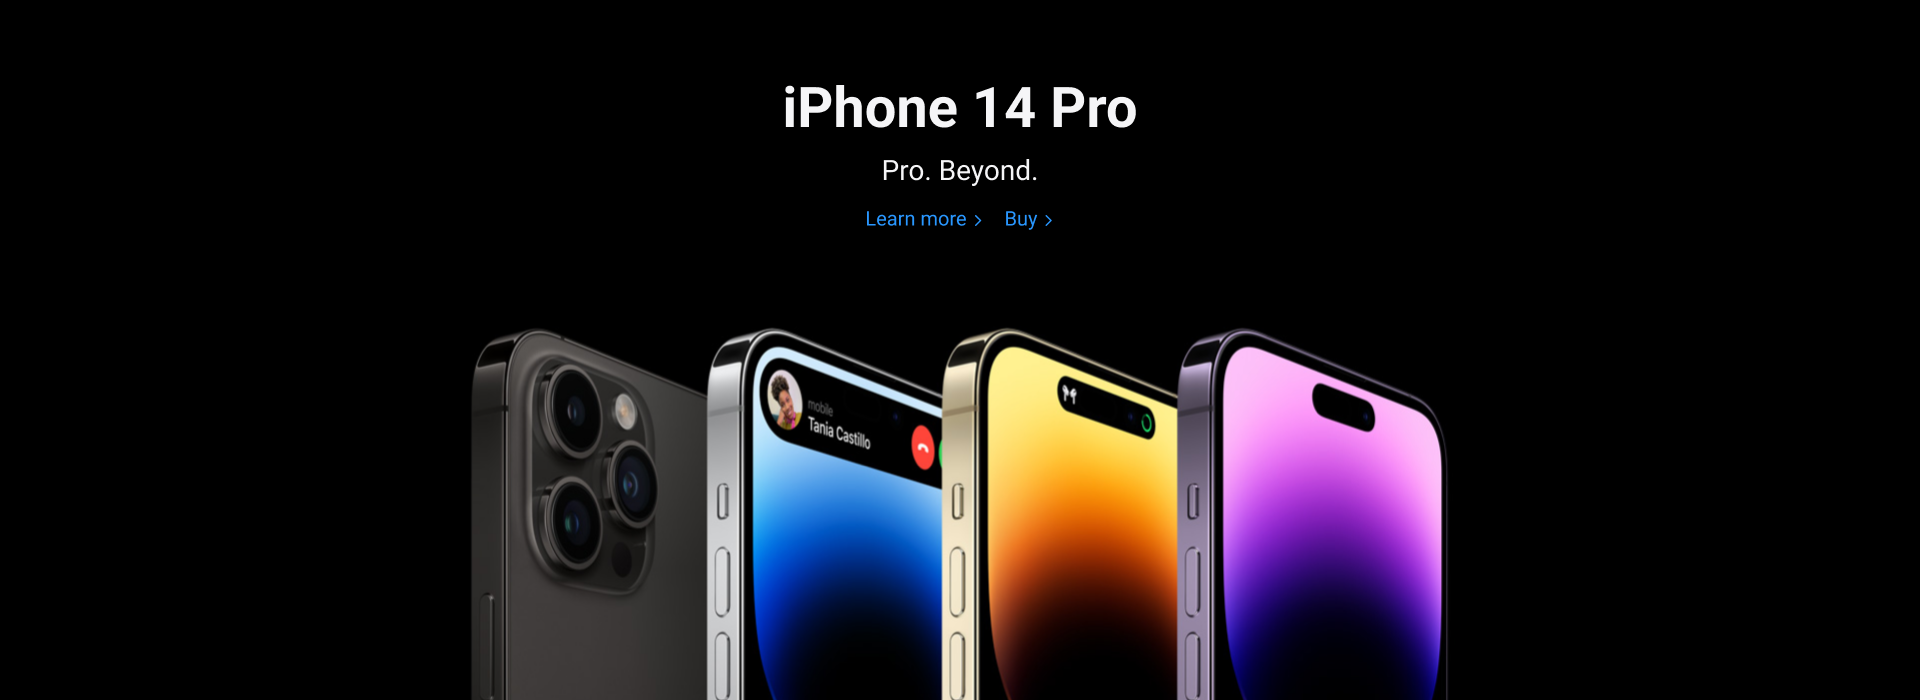
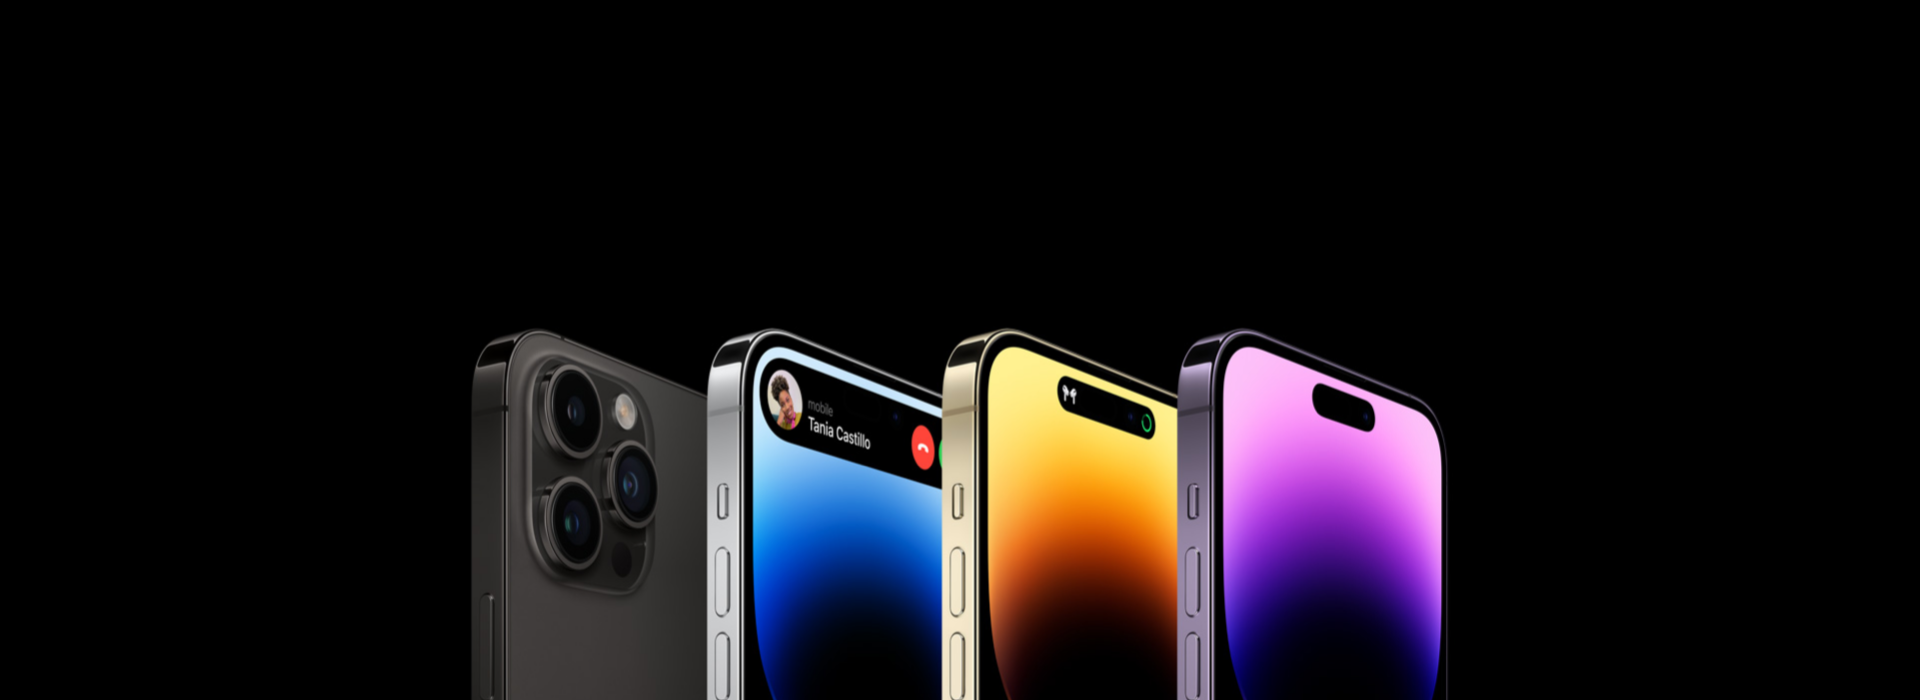
apple homework end

Changed region(s): [[0.4062, 0.12, 0.5938, 0.18], [0.4375, 0.3, 0.5625, 0.33], [0.4688, 0.24, 0.5312, 0.27]]

diff --git a/public/dist/css/container/apple/style.css b/public/dist/css/container/apple/style.css
@@ -1,4 +1,4 @@
-.section, .header, .product {
+.section, .header, .header__bottom, .product {
   display: flex;
   justify-content: center;
   padding: 0 16px;
@@ -37,6 +37,26 @@
 @media all and (width < 1260px) {
   .section__double {
     grid-template-columns: 1fr;
+  }
+}
+
+.footer {
+  display: flex;
+  justify-content: center;
+}
+
+.section__footer, .footer__section {
+  display: grid;
+  grid-template-columns: 1fr 1fr 1fr 1fr 1fr 1fr;
+}
+@media all and (width < 1260px) {
+  .section__footer, .footer__section {
+    grid-template-columns: 1fr 1fr 1fr 1fr;
+  }
+}
+@media all and (width < 1000px) {
+  .section__footer, .footer__section {
+    grid-template-columns: 1fr 1fr 1fr;
   }
 }
 
@@ -81,6 +101,33 @@
 
 .header__linl {
   font-size: 12px;
+}
+
+.header__bottom {
+  display: flex;
+  background-color: #fff;
+}
+
+.header__title {
+  font-size: 16px;
+  color: #000;
+}
+
+.header__link-shop {
+  font-size: 16px;
+  color: #0066cc;
+  position: relative;
+  padding-right: 15px;
+}
+.header__link-shop::after {
+  display: block;
+  content: "";
+  width: 7px;
+  height: 12px;
+  background-image: url("/svg/arrowAction.svg");
+  position: absolute;
+  right: 0;
+  top: calc(50% - 7px);
 }
 
 .product {
@@ -151,7 +198,7 @@
 
 .product-small {
   max-height: 580px;
-  height: 50vh;
+  height: 100vh;
   background-size: cover;
 }
 @media all and (width < ) {
@@ -195,6 +242,11 @@
   background-color: #fafafa;
 }
 
+.product--watch {
+  background-image: url(/img/watch.png);
+  background-color: #000;
+}
+
 .product--trade-in {
   background-image: url(/img/trade-in.png);
   background-color: #fafafa;
@@ -202,6 +254,26 @@
 
 .product--conference {
   background-image: url(/img/conference.png);
+  background-color: #000;
+}
+
+.product--ipad {
+  background-image: url(/img/ipad.png);
+  background-color: #fafafa;
+}
+
+.product--business {
+  background-image: url(/img/business.png);
+  background-color: #000;
+}
+
+.product--gift {
+  background-image: url(/img/gift.png);
+  background-color: #fafafa;
+}
+
+.product--card {
+  background-image: url(/img/card.png);
   background-color: #fafafa;
 }
 
@@ -210,6 +282,34 @@
 }
 .product-small .product__description {
   font-size: 20px;
+}
+
+.footer {
+  min-height: 270px;
+  padding-top: 39px;
+  background-color: #f5f5f7;
+}
+
+.footer__section {
+  max-width: 1000px;
+  width: 100%;
+}
+
+.footer__content {
+  display: flex;
+  flex-direction: column;
+}
+
+.footer__title {
+  font-size: 12px;
+  font-weight: 600;
+  padding-bottom: 16px;
+}
+
+.footer__link {
+  font-size: 12px;
+  color: #000;
+  padding-bottom: 12px;
 }
 
 /*# sourceMappingURL=style.css.map */

diff --git a/src/container/apple/style.scss b/src/container/apple/style.scss
@@ -34,6 +34,24 @@
 	font-size: s.size('small');
 }
 
+.header__bottom {
+	@extend .section;
+
+	display: flex;
+	background-color: #fff;
+}
+
+.header__title {
+	font-size: s.space(4);
+	color: s.color('textDark')
+}
+
+.header__link-shop {
+	font-size: s.space(4);
+	// align-items: right;
+	@include s.linkAction;
+}
+
 .product {
 	@extend .section;
 
@@ -43,6 +61,16 @@
 	background-repeat: no-repeat;
 	background-position: bottom center;
 }
+
+// .product_s {
+// 	@extend .section;
+
+// 	padding-top: s.space(7);
+// 	padding-bottom: s.space(7);
+
+// 	background-repeat: no-repeat;
+// 	background-position: bottom center;
+// }
 
 .product__content {
 	display: grid;
@@ -88,7 +116,7 @@
 
 .product-small {
 	max-height: 580px;
-	height: 50vh;
+	height: 100vh;
 
 	background-size: cover;
 
@@ -134,9 +162,13 @@
 $productImage: (
 	'iphone-pro' '/img/iphone_pro.png' #000,
 	'iphone' '/img/iphone.png' #fafafa,
+	'watch' '/img/watch.png' #000,
 	'trade-in' '/img/trade-in.png' #fafafa,
-	'conference' '/img/conference.png' #fafafa,
-
+	'conference' '/img/conference.png' #000,
+	'ipad' '/img/ipad.png' #fafafa,
+	'business' '/img/business.png' #000,
+	'gift' '/img/gift.png' #fafafa,
+	'card' '/img/card.png' #fafafa,
 );
 
 @each $class,
@@ -157,4 +189,37 @@ $color in $productImage {
 	.product__description {
 		font-size: 20px;
 	}
+}
+
+.footer {
+	@extend .footer;
+
+	min-height: 270px;
+
+	padding-top: 39px;
+
+	background-color: s.color('background');
+}
+
+.footer__section {
+	@extend .section__footer;
+	max-width: 1000px;
+	width: 100%;
+}
+
+.footer__content {
+	display: flex;
+	flex-direction: column;
+}
+
+.footer__title {
+	font-size: s.space(3);
+	font-weight: 600;
+	padding-bottom: s.space(4);
+}
+
+.footer__link {
+	font-size: s.space(3);
+	color: s.color('textDark');
+	padding-bottom: s.space(3);
 }

diff --git a/public/dist/css/layout/default/style.css b/public/dist/css/layout/default/style.css
@@ -40,6 +40,26 @@
   }
 }
 
+.footer {
+  display: flex;
+  justify-content: center;
+}
+
+.section__footer {
+  display: grid;
+  grid-template-columns: 1fr 1fr 1fr 1fr 1fr 1fr;
+}
+@media all and (width < 1260px) {
+  .section__footer {
+    grid-template-columns: 1fr 1fr 1fr 1fr;
+  }
+}
+@media all and (width < 1000px) {
+  .section__footer {
+    grid-template-columns: 1fr 1fr 1fr;
+  }
+}
+
 .page {
   font-family: "Roboto", sans-serif;
   font-size: 16px;

diff --git a/public/dist/css/lib/section.css b/public/dist/css/lib/section.css
@@ -40,4 +40,24 @@
   }
 }
 
+.footer {
+  display: flex;
+  justify-content: center;
+}
+
+.section__footer {
+  display: grid;
+  grid-template-columns: 1fr 1fr 1fr 1fr 1fr 1fr;
+}
+@media all and (width < 1260px) {
+  .section__footer {
+    grid-template-columns: 1fr 1fr 1fr 1fr;
+  }
+}
+@media all and (width < 1000px) {
+  .section__footer {
+    grid-template-columns: 1fr 1fr 1fr;
+  }
+}
+
 /*# sourceMappingURL=section.css.map */

diff --git a/public/dist/css/lib/service.css b/public/dist/css/lib/service.css
@@ -40,4 +40,24 @@
   }
 }
 
+.footer {
+  display: flex;
+  justify-content: center;
+}
+
+.section__footer {
+  display: grid;
+  grid-template-columns: 1fr 1fr 1fr 1fr 1fr 1fr;
+}
+@media all and (width < 1260px) {
+  .section__footer {
+    grid-template-columns: 1fr 1fr 1fr 1fr;
+  }
+}
+@media all and (width < 1000px) {
+  .section__footer {
+    grid-template-columns: 1fr 1fr 1fr;
+  }
+}
+
 /*# sourceMappingURL=service.css.map */

diff --git a/src/lib/section.scss b/src/lib/section.scss
@@ -35,3 +35,21 @@ $contentSizeMap: (
 		grid-template-columns: 1fr;
 	}
 }
+
+.footer {
+	display: flex;
+	justify-content: center;
+}
+
+.section__footer {
+	display: grid;
+	grid-template-columns: 1fr 1fr 1fr 1fr 1fr 1fr;
+
+	@media all and (width < var.screen('laptop')) {
+		grid-template-columns: 1fr 1fr 1fr 1fr;
+	}
+
+	@media all and (width < var.screen('tablet')) {
+		grid-template-columns: 1fr 1fr 1fr;
+	}
+}

diff --git a/src/lib/var.scss b/src/lib/var.scss
@@ -4,6 +4,7 @@ $colorMap: (
 	whiteLight:#dadada,
 	fontDark:#1d1d1f,
 	primary:#0066cc,
+	textDark:#000,
 );
 
 @function color ($key) {
